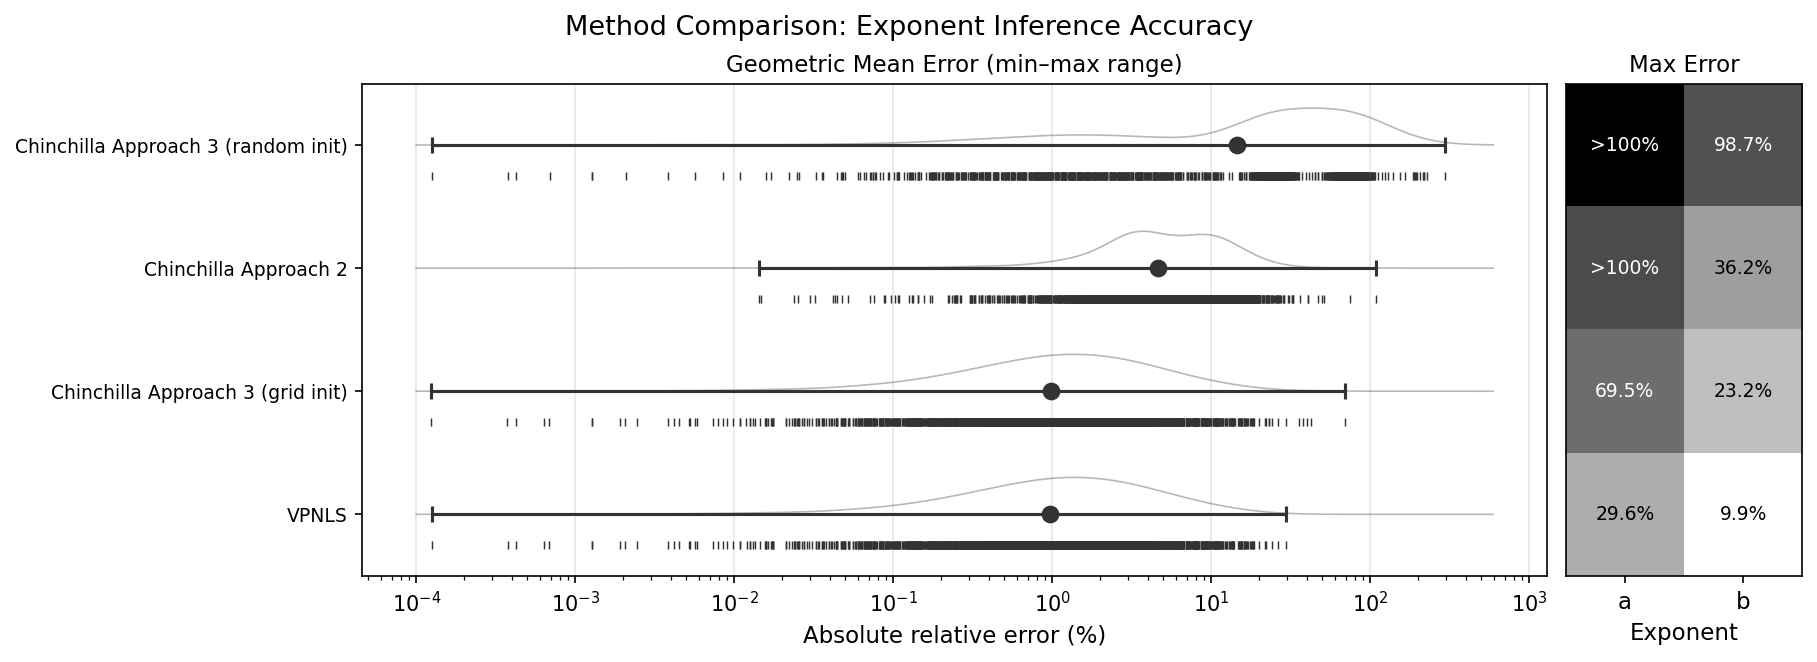
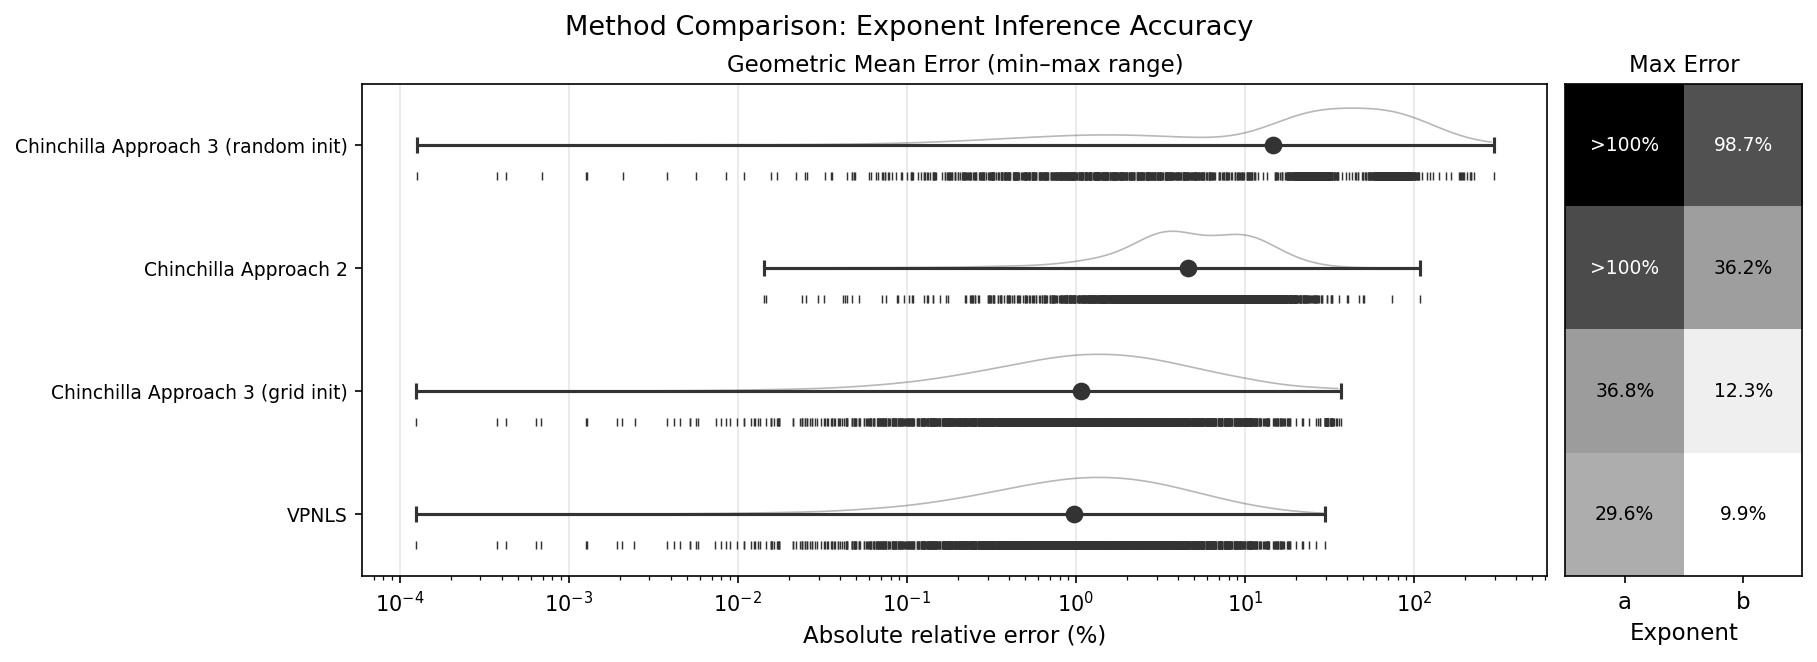
Extract fit_grid_search helper, vectorize 5D grid, clip KDE tails
- Add fit_grid_search() to chinchilla.py: vectorized 5D grid search
  using itertools.product + numpy broadcasting for RSS evaluation
- Extract _cartesian_product() helper with shape assertion
- Replace 5-deep Python loops in both chinchilla.py and exp7 with
  fit_grid_search (3.6x speedup for exp7)
- Increase exp7 Approach 3 grid from 4 to 8 points per parameter
  (matching chinchilla.py) with 32x VPNLS budget assertion
- Clip KDE curves to actual min/max error range in comparison figure
- Add unit tests for _cartesian_product and fit_grid_search

diff --git a/src/scaling_law_analysis/experiments/exp7_data_efficiency.py b/src/scaling_law_analysis/experiments/exp7_data_efficiency.py
@@ -31,6 +31,7 @@ from scaling_law_analysis.chinchilla import (
     FitStatus,
     LossSurface,
     NonFiniteFitError,
+    fit_grid_search,
     compute_center_offset,
     fit_parabola,
     fit_power_law,
@@ -285,12 +286,12 @@ _BETA_GRID_MIN, _BETA_GRID_MAX = 0.05, 0.95
 
 # ── Fitting: Approach 3 ──────────────────────────────────────────────────────
 
-# Coarse 5D grid for initialization (4 values per parameter = 4^5 = 1024 points)
-_A3_ALPHA_GRID = np.linspace(_ALPHA_GRID_MIN, _ALPHA_GRID_MAX, 4)
-_A3_BETA_GRID = np.linspace(_BETA_GRID_MIN, _BETA_GRID_MAX, 4)
-_A3_E_GRID = np.linspace(0.1, 5.0, 4)
-_A3_A_GRID = np.logspace(1, 4, 4)
-_A3_B_GRID = np.logspace(1, 4, 4)
+# Coarse 5D grid for initialization (8 values per parameter = 8^5 = 32768 points)
+_A3_ALPHA_GRID = np.linspace(_ALPHA_GRID_MIN, _ALPHA_GRID_MAX, 8)
+_A3_BETA_GRID = np.linspace(_BETA_GRID_MIN, _BETA_GRID_MAX, 8)
+_A3_E_GRID = np.linspace(0.1, 5.0, 8)
+_A3_A_GRID = np.logspace(1, 4, 8)
+_A3_B_GRID = np.logspace(1, 4, 8)
 
 _A3_BOUNDS = [_E_BOUNDS, _A_BOUNDS, _B_BOUNDS, _ALPHA_BOUNDS, _BETA_BOUNDS]
 _A3_LBFGSB_OPTIONS = {"ftol": _OPT_TOL, "gtol": _OPT_TOL, "maxiter": _OPT_MAXITER}
@@ -335,7 +336,7 @@ def fit_approach3(
     """Recover exponents via direct 5-parameter L-BFGS-B optimization.
 
     Optimizes E, A, B, α, β jointly using analytical gradients.
-    Initialization via coarse 5D grid search (4^5 = 1024 evaluations) or,
+    Initialization via coarse 5D grid search (8^5 = 32768 evaluations) or,
     when ``random_init`` is True, a single random starting point within bounds.
 
     Args:
@@ -371,20 +372,16 @@ def fit_approach3(
             raise ValueError("rng is required when random_init=True")
         best_x0 = np.array([rng.uniform(lo, hi) for lo, hi in _A3_BOUNDS])
     else:
-        best_rss = np.inf
-        best_x0 = None
-        for E_init in _A3_E_GRID:
-            for A_init in _A3_A_GRID:
-                for B_init in _A3_B_GRID:
-                    for alpha_init in _A3_ALPHA_GRID:
-                        for beta_init in _A3_BETA_GRID:
-                            x = np.array(
-                                [E_init, A_init, B_init, alpha_init, beta_init]
-                            )
-                            r = rss(x)
-                            if r < best_rss:
-                                best_rss = r
-                                best_x0 = x
+        best_x0 = fit_grid_search(
+            E_grid=_A3_E_GRID,
+            A_grid=_A3_A_GRID,
+            B_grid=_A3_B_GRID,
+            alpha_grid=_A3_ALPHA_GRID,
+            beta_grid=_A3_BETA_GRID,
+            log_N=log_N,
+            log_D=log_D,
+            L=L,
+        )
 
     result = minimize(
         rss,
@@ -447,8 +444,8 @@ _A3_GRID_SIZE = (
 )
 _VP_GRID_SIZE = len(_VP_ALPHA_GRID) * len(_VP_BETA_GRID)
 assert (
-    _A3_GRID_SIZE == _VP_GRID_SIZE
-), f"Grid search sizes differ: Approach 3 has {_A3_GRID_SIZE}, VPNLS has {_VP_GRID_SIZE}"
+    _A3_GRID_SIZE == 32 * _VP_GRID_SIZE
+), f"Expected Approach 3 grid to be 32× VPNLS grid, got {_A3_GRID_SIZE}/{_VP_GRID_SIZE}={_A3_GRID_SIZE/_VP_GRID_SIZE}×"
 
 
 def _vp_compute_rss_and_params(
@@ -1173,20 +1170,23 @@ def create_method_comparison_figure(
                 linewidths=0.7,
             )
 
-        # KDE line (above the dot row)
+        # KDE line (above the dot row), clipped to actual data range
         if len(valid) > 20:
             try:
                 kde = gaussian_kde(np.log10(valid), bw_method=0.3)
-                density = kde(np.log10(kde_x))
-                density_norm = density / density.max() * 0.3
-                ax_dot.plot(
-                    kde_x,
-                    y - density_norm,
-                    color=dot_color,
-                    alpha=rug_kde_alpha,
-                    linewidth=0.8,
-                    zorder=2,
-                )
+                v_min, v_max = valid.min(), valid.max()
+                kde_x_clip = kde_x[(kde_x >= v_min) & (kde_x <= v_max)]
+                if len(kde_x_clip) > 1:
+                    density = kde(np.log10(kde_x_clip))
+                    density_norm = density / density.max() * 0.3
+                    ax_dot.plot(
+                        kde_x_clip,
+                        y - density_norm,
+                        color=dot_color,
+                        alpha=rug_kde_alpha,
+                        linewidth=0.8,
+                        zorder=2,
+                    )
             except np.linalg.LinAlgError:
                 pass
 

diff --git a/src/scaling_law_analysis/chinchilla.py b/src/scaling_law_analysis/chinchilla.py
@@ -8,6 +8,7 @@ This module provides:
 """
 
 import enum
+import itertools
 
 import numpy as np
 from dataclasses import dataclass
@@ -929,6 +930,56 @@ def _surface_rss_grad(
     return np.array([grad_E, grad_A, grad_B, grad_alpha, grad_beta])
 
 
+def _cartesian_product(*arrays: np.ndarray) -> np.ndarray:
+    """Build a (K, N) matrix whose columns are the Cartesian product of K 1-D arrays.
+
+    N is the product of all array lengths. Column order matches nested
+    for-loops: the first array varies slowest and the last varies fastest.
+    """
+    result = np.array(list(itertools.product(*arrays))).T
+    assert result.shape == (len(arrays), np.prod([len(a) for a in arrays]))
+    return result
+
+
+def fit_grid_search(
+    *,
+    E_grid: np.ndarray,
+    A_grid: np.ndarray,
+    B_grid: np.ndarray,
+    alpha_grid: np.ndarray,
+    beta_grid: np.ndarray,
+    log_N: np.ndarray,
+    log_D: np.ndarray,
+    L: np.ndarray,
+) -> np.ndarray:
+    """Vectorized 5D grid search for the best Chinchilla surface initialization.
+
+    Evaluates RSS = sum((L - pred)^2) over the Cartesian product of the five
+    grids and returns the parameter vector with the lowest RSS.
+
+    Args:
+        E_grid: 1-D grid of E values.
+        A_grid: 1-D grid of A values.
+        B_grid: 1-D grid of B values.
+        alpha_grid: 1-D grid of α values.
+        beta_grid: 1-D grid of β values.
+        log_N: Log parameter counts, shape (n_data,).
+        log_D: Log token counts, shape (n_data,).
+        L: Loss values, shape (n_data,).
+
+    Returns:
+        1-D array [E, A, B, α, β] with the lowest RSS on the grid.
+    """
+    grid = _cartesian_product(E_grid, A_grid, B_grid, alpha_grid, beta_grid)
+    preds = (
+        grid[0]
+        + grid[1] * np.exp(-grid[3] * log_N[:, None])
+        + grid[2] * np.exp(-grid[4] * log_D[:, None])
+    )  # (n_data, N_grid)
+    rss_vals = np.sum((L[:, None] - preds) ** 2, axis=0)
+    return grid[:, int(np.argmin(rss_vals))]
+
+
 def fit_approach3(
     N: np.ndarray,
     D: np.ndarray,
@@ -981,18 +1032,16 @@ def fit_approach3(
         return _surface_rss_grad(x, log_N, log_D, L)
 
     # Stage 1: Coarse 5D grid search for initialization
-    best_rss = np.inf
-    best_x0 = None
-    for E_init in _A3_E_GRID:
-        for A_init in _A3_A_GRID:
-            for B_init in _A3_B_GRID:
-                for alpha_init in _A3_ALPHA_GRID:
-                    for beta_init in _A3_BETA_GRID:
-                        x = np.array([E_init, A_init, B_init, alpha_init, beta_init])
-                        r = rss(x)
-                        if r < best_rss:
-                            best_rss = r
-                            best_x0 = x
+    best_x0 = fit_grid_search(
+        E_grid=_A3_E_GRID,
+        A_grid=_A3_A_GRID,
+        B_grid=_A3_B_GRID,
+        alpha_grid=_A3_ALPHA_GRID,
+        beta_grid=_A3_BETA_GRID,
+        log_N=log_N,
+        log_D=log_D,
+        L=L,
+    )
 
     # Stage 2: L-BFGS-B refinement from best grid point
     bounds = [

diff --git a/tests/test_chinchilla.py b/tests/test_chinchilla.py
@@ -9,8 +9,10 @@ from scaling_law_analysis.chinchilla import (
     FINE_BETA_GRID,
     FitError,
     LossSurface,
+    _cartesian_product,
     _surface_rss,
     _surface_rss_grad,
+    fit_grid_search,
     fit_parabola,
     fit_approach2,
     fit_surface,
@@ -257,3 +259,74 @@ class TestSurfaceRssGrad:
             ) / (2 * h)
 
         np.testing.assert_allclose(analytic, fd, rtol=1e-9)
+
+
+class TestCartesianProduct:
+    """Tests for _cartesian_product helper."""
+
+    def test_matches_nested_loops(self):
+        """Columns match the order of nested for-loops (first=slowest)."""
+        a = np.array([1, 2])
+        b = np.array([10, 20, 30])
+        c = np.array([100, 200])
+
+        result = _cartesian_product(a, b, c)
+
+        expected = np.array(
+            [
+                [1, 10, 100],
+                [1, 10, 200],
+                [1, 20, 100],
+                [1, 20, 200],
+                [1, 30, 100],
+                [1, 30, 200],
+                [2, 10, 100],
+                [2, 10, 200],
+                [2, 20, 100],
+                [2, 20, 200],
+                [2, 30, 100],
+                [2, 30, 200],
+            ]
+        ).T  # (3, 12)
+
+        assert result.shape == (3, 2 * 3 * 2)
+        np.testing.assert_array_equal(result, expected)
+
+
+class TestFitGridSearch:
+    """Tests for fit_grid_search vectorized grid initialization."""
+
+    @pytest.mark.parametrize(
+        "target_idx",
+        [(0, 0, 0, 0, 0), (2, 1, 2, 1, 2), (1, 0, 1, 1, 0)],
+        ids=["first", "last", "interior"],
+    )
+    def test_finds_planted_zero_rss_point(self, target_idx):
+        """Plant a grid point as the exact data generator; function must find it."""
+        E_grid = np.array([1.0, 2.0, 3.0])
+        A_grid = np.array([10.0, 100.0])
+        B_grid = np.array([10.0, 50.0, 100.0])
+        alpha_grid = np.array([0.2, 0.5])
+        beta_grid = np.array([0.3, 0.6, 0.9])
+
+        grids = [E_grid, A_grid, B_grid, alpha_grid, beta_grid]
+        expected = np.array([g[i] for g, i in zip(grids, target_idx)])
+        E, A, B, alpha, beta = expected
+
+        N = np.array([1e8, 1e9, 1e10])
+        D = np.array([1e9, 1e10, 1e11])
+        log_N, log_D = np.log(N), np.log(D)
+        L = E + A * N ** (-alpha) + B * D ** (-beta)
+
+        best_x0 = fit_grid_search(
+            E_grid=E_grid,
+            A_grid=A_grid,
+            B_grid=B_grid,
+            alpha_grid=alpha_grid,
+            beta_grid=beta_grid,
+            log_N=log_N,
+            log_D=log_D,
+            L=L,
+        )
+
+        np.testing.assert_array_equal(best_x0, expected)
